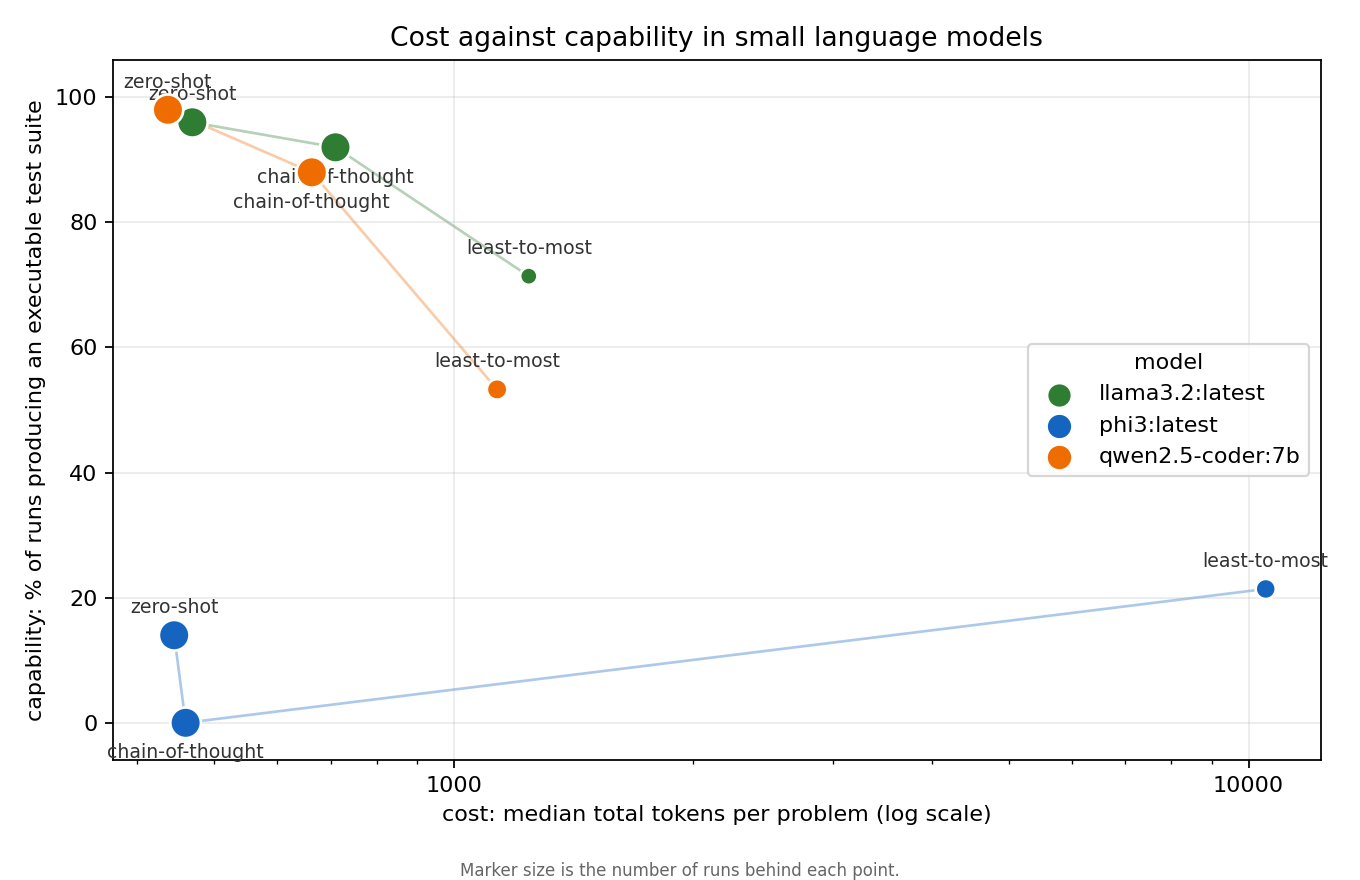
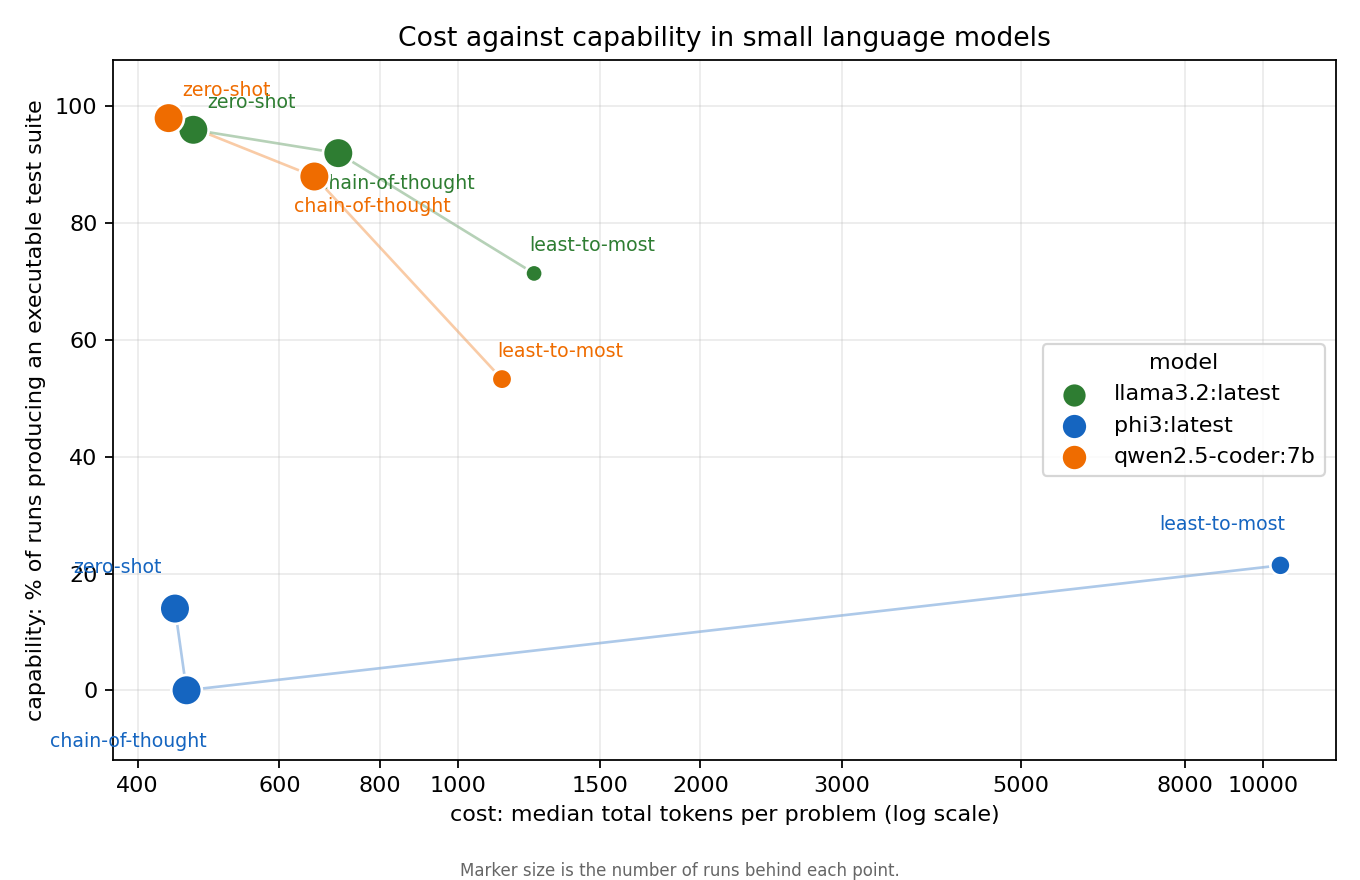
Fix chart legend colours, label placement and axis ticks

diff --git a/src/analyze.py b/src/analyze.py
@@ -73,6 +73,7 @@ def main():
 
         models = sorted({r["model"] for r in summary})
         colours = {m: PALETTE[i % len(PALETTE)] for i, m in enumerate(models)}
+        handles = []
 
         fig, ax = plt.subplots(figsize=(8.5, 5.5))
         for model in models:
@@ -81,18 +82,32 @@ def main():
             xs = [r["median_tokens"] for r in pts]
             ys = [r["pct_executable"] for r in pts]
             ax.plot(xs, ys, color=colours[model], alpha=.35, lw=1.2, zorder=1)
-            ax.scatter(xs, ys, s=[40 + r["n"] * 3 for r in pts], color=colours[model],
-                       label=model, zorder=3, edgecolor="white", linewidth=1.2)
+            sc = ax.scatter(xs, ys, s=[40 + r["n"] * 3 for r in pts],
+                            color=colours[model], zorder=3,
+                            edgecolor="white", linewidth=1.2)
+            handles.append((sc, model))
+            lean = 1 if models.index(model) % 2 == 0 else -1
             for r in pts:
                 dx, dy = OFF.get(r["strategy"], (0, 10))
                 ax.annotate(SHORT.get(r["strategy"], r["strategy"]),
                             (r["median_tokens"], r["pct_executable"]),
-                            textcoords="offset points", xytext=(dx, dy),
-                            fontsize=8.5, ha="center", color="#333")
+                            textcoords="offset points",
+                            xytext=(dx + 26 * lean, dy * (1 if lean > 0 else 1.6)),
+                            fontsize=8.5, ha="center", color=colours[model])
 
         if max(r["median_tokens"] for r in summary) / max(1, min(
                 r["median_tokens"] for r in summary if r["median_tokens"])) > 5:
             ax.set_xscale("log")
+            # Default log ticks label only decades, which hides the range where
+            # the strategies actually differ. Place ticks on the real values.
+            lo = min(r["median_tokens"] for r in summary if r["median_tokens"])
+            hi = max(r["median_tokens"] for r in summary)
+            ticks = [t for t in (400, 600, 800, 1000, 1500, 2000, 3000, 5000,
+                                 8000, 10000, 15000, 20000)
+                     if lo * 0.85 <= t <= hi * 1.2]
+            if ticks:
+                ax.set_xticks(ticks)
+                ax.set_xticks([], minor=True)
             ax.get_xaxis().set_major_formatter(ScalarFormatter())
             ax.set_xlabel("cost: median total tokens per problem (log scale)")
         else:
@@ -100,9 +115,10 @@ def main():
 
         ax.set_ylabel("capability: % of runs producing an executable test suite")
         ax.set_title("Cost against capability in small language models")
-        ax.set_ylim(-6, 106)
+        ax.set_ylim(-12, 108)
         ax.grid(alpha=.25)
-        ax.legend(title="model", loc="center right", frameon=True)
+        ax.legend([h for h, _ in handles], [m for _, m in handles],
+                  title="model", loc="center right", frameon=True)
         fig.text(.5, .005, "Marker size is the number of runs behind each point.",
                  ha="center", fontsize=7.5, color="#666")
         fig.tight_layout(rect=[0, .03, 1, 1])
